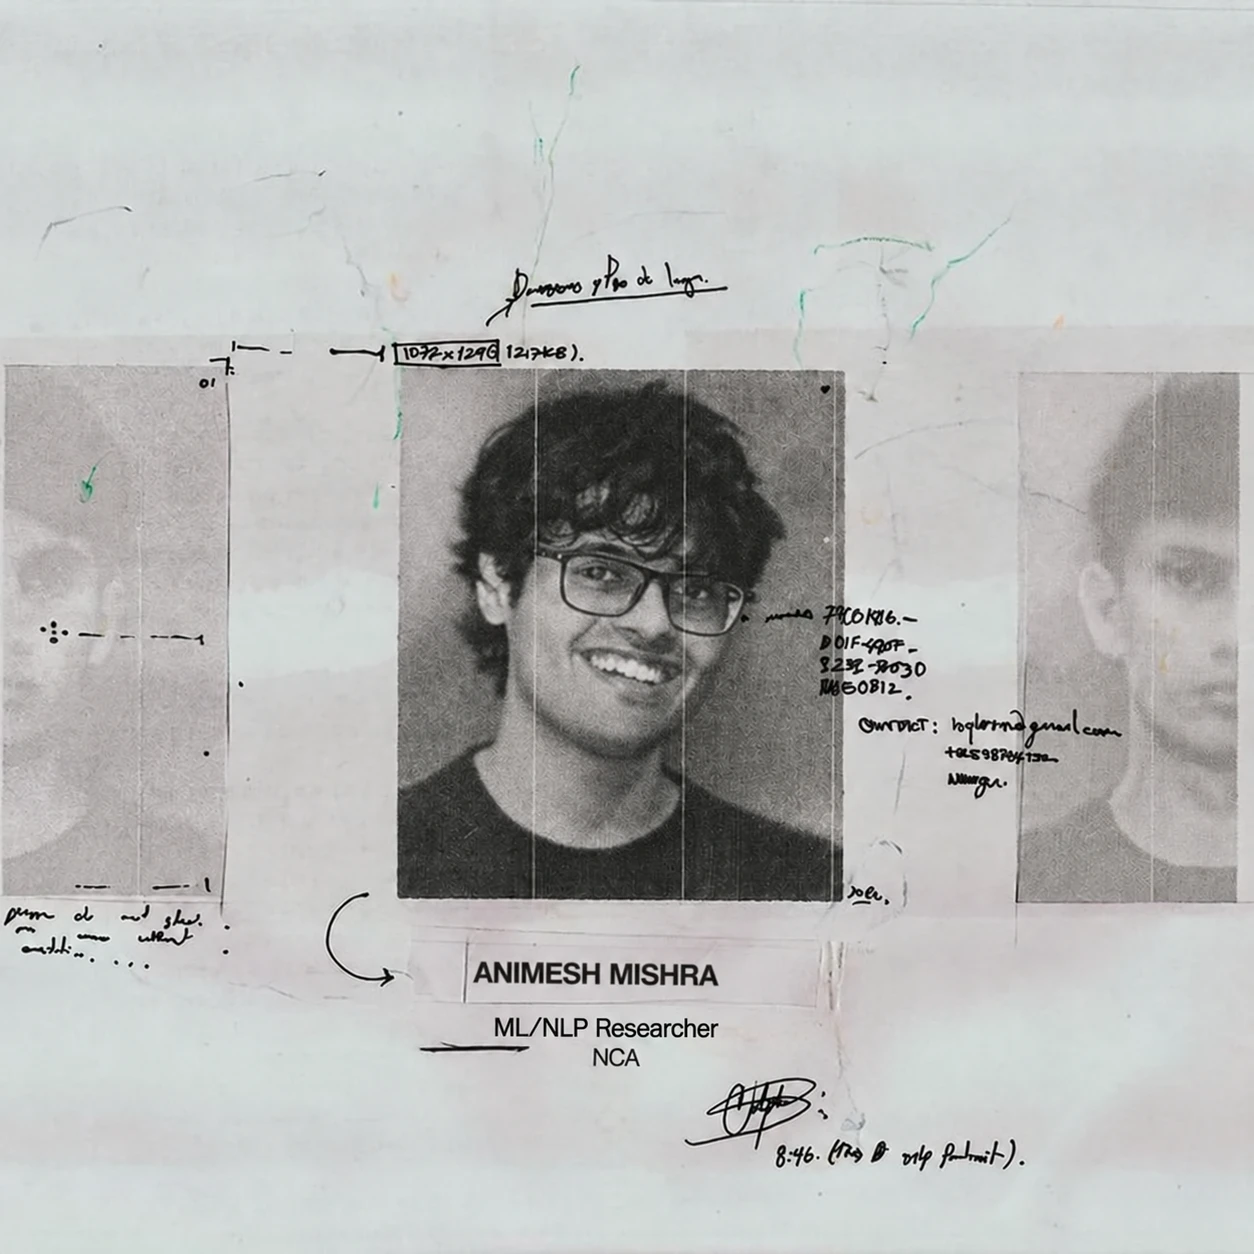
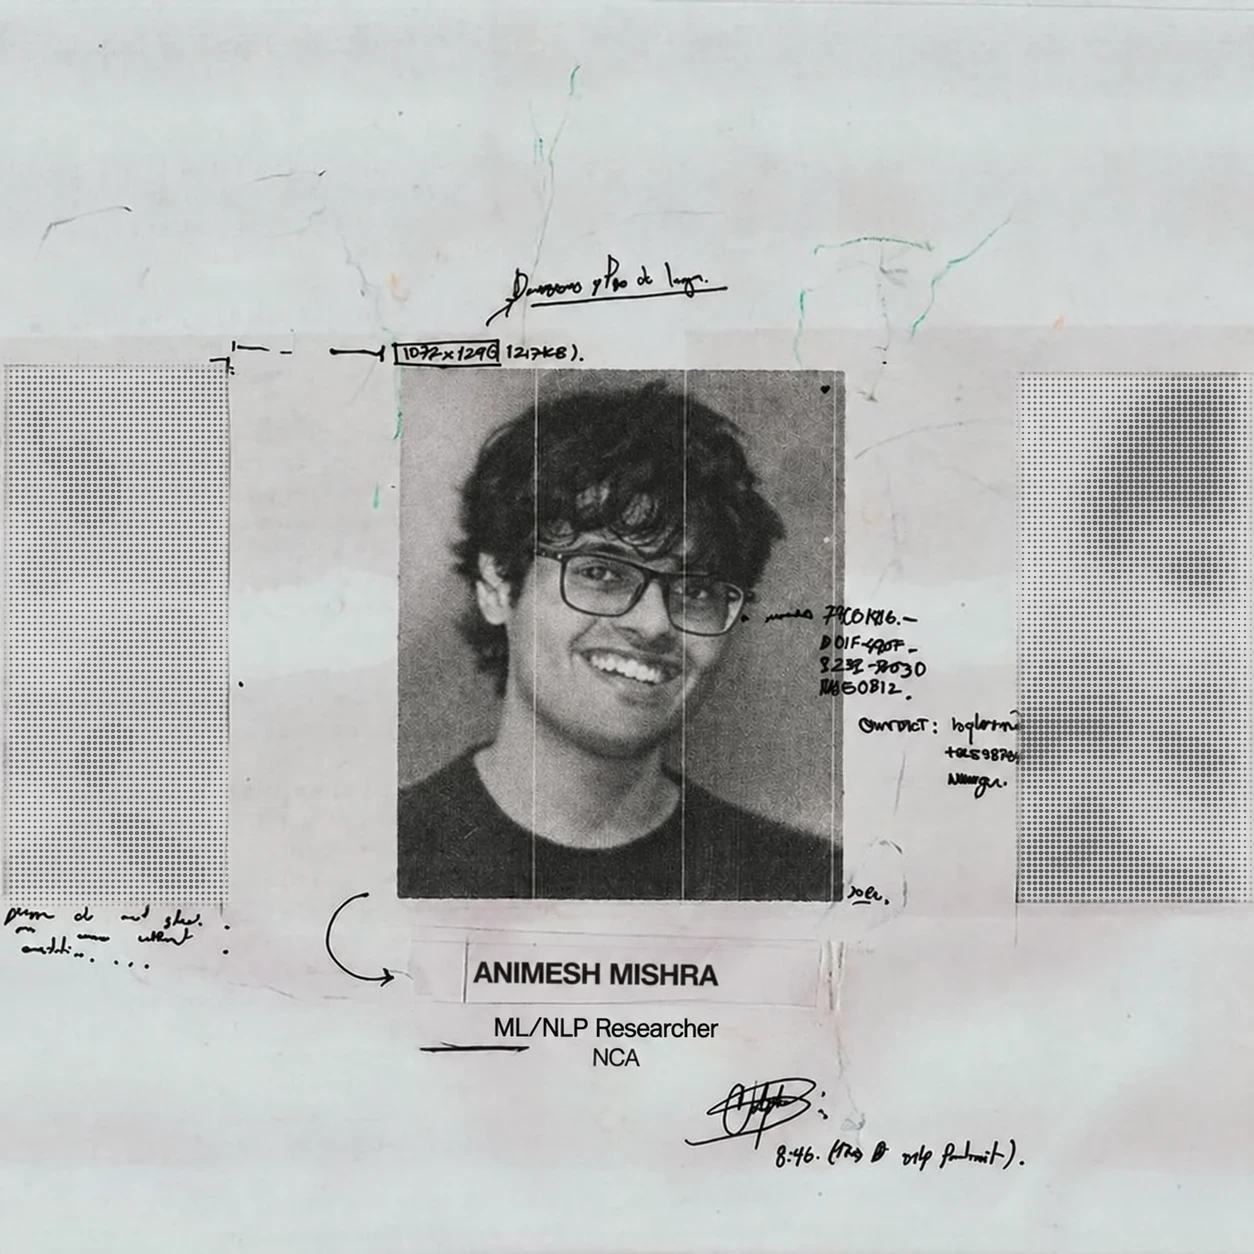
Obscure the two background portraits on the poster with a halftone artifact
Blur plus a dot screen, matching the site's dithered artwork, baked into the image so it holds at every crop. The original is kept in tools/assets and the script in tools/obscure-poster.py.

Claude-Session: https://claude.ai/code/session_01L4VzvRqZKbcCrVPEqgs7S5

Changed region(s): [[0.8086, 0.2799, 1.0, 0.7464], [0.0, 0.2799, 0.1866, 0.7464]]

diff --git a/web/tools/obscure-poster.py b/web/tools/obscure-poster.py
@@ -1,0 +1,60 @@
+"""Obscures the two background portraits on the poster (the left and right panels), keeping the centre
+portrait sharp. Each panel is blurred hard and covered with a halftone dot screen, the same dithered look
+as the site's other artwork, with feathered edges so it melts into the paper.
+
+    python3 tools/obscure-poster.py            # original (tools/assets) -> public/assets/portfolio/
+Needs Pillow. Edit PANELS if the poster changes; boxes are (left, top, right, bottom) in source pixels.
+"""
+from PIL import Image, ImageDraw, ImageFilter, ImageChops, ImageStat
+import os
+
+SRC = os.path.join(os.path.dirname(__file__), 'assets', 'animesh-mishra-poster.original.webp')
+OUT = os.path.join(os.path.dirname(__file__), '..', 'public', 'assets', 'portfolio', 'animesh-mishra-poster.webp')
+PANELS = [(2, 362, 232, 908), (1014, 370, 1254, 906)]
+BLUR = 15      # how smeared the faces become
+CELL = 6       # halftone dot pitch, in pixels
+FEATHER = 5    # soft edge between obscured area and paper
+
+
+def halftone(gray, cell):
+    """Dots on a grid, radius growing with darkness: the screen-print look."""
+    w, h = gray.size
+    small = gray.resize((max(1, w // cell), max(1, h // cell)), Image.BILINEAR)
+    S = 4  # supersample for round dots
+    canvas = Image.new('L', (w * S, h * S), 255)
+    d = ImageDraw.Draw(canvas)
+    px = small.load()
+    for cy in range(small.size[1]):
+        for cx in range(small.size[0]):
+            dark = 1 - px[cx, cy] / 255
+            r = (cell * 0.72) * (dark ** 0.8) * S
+            if r < 0.6:
+                continue
+            x, y = (cx + 0.5) * cell * S, (cy + 0.5) * cell * S
+            d.ellipse((x - r, y - r, x + r, y + r), fill=0)
+    return canvas.resize((w, h), Image.LANCZOS)
+
+
+im = Image.open(SRC).convert('RGB')
+for (l, t, r, b) in PANELS:
+    box = (l, t, r, b)
+    region = im.crop(box)
+    blurred = region.filter(ImageFilter.GaussianBlur(BLUR))
+    # flatten the contrast a little so the figure reads as a smudge, not a face
+    mean = ImageStat.Stat(blurred.convert('L')).mean[0]
+    gray = blurred.convert('L').point(lambda v: int(mean + (v - mean) * 1.25))
+    dots = halftone(gray, CELL)
+    paper = Image.new('L', region.size, 232)
+    screen = ImageChops.multiply(paper, dots.point(lambda v: 70 + int(v * 185 / 255)))  # dots at ~75% ink
+    # mix: mostly the blur (keeps the tone) with the dot screen on top
+    base = blurred.convert('L')
+    mixed = ImageChops.blend(base, screen, 0.7)
+    tint = Image.merge('RGB', (mixed, mixed, mixed))
+    mask = Image.new('L', region.size, 0)
+    ImageDraw.Draw(mask).rectangle((FEATHER, FEATHER, region.size[0] - FEATHER, region.size[1] - FEATHER), fill=255)
+    mask = mask.filter(ImageFilter.GaussianBlur(FEATHER / 1.5))
+    im.paste(tint, (l, t), mask)
+
+os.makedirs(os.path.dirname(OUT), exist_ok=True)
+im.save(OUT, 'WEBP', quality=90, method=6)
+print('wrote', os.path.relpath(OUT))

diff --git a/web/README.md b/web/README.md
@@ -151,6 +151,7 @@ Not part of the site; used to build and verify it.
 | `dom-diff.mjs`, `compare.mjs`, `behavior-check.mjs` | verification (above) |
 | `html-to-jsx.mjs` | converts captured HTML into JSX components |
 | `extract-posts.mjs`, `extract-lists.mjs`, `extract-shared.mjs`, `write-content.mjs` | one-off extraction of the content files from the captured pages |
+| `obscure-poster.py` | blurs and halftones the two background portraits on the home poster (original kept in `tools/assets/`); needs Pillow |
 | `localize-external.mjs` | copies hot-linked third-party images into `public/` |
 
 `extract-posts.mjs` keeps math blocks' exact whitespace (they render with `white-space: pre`); run it with
